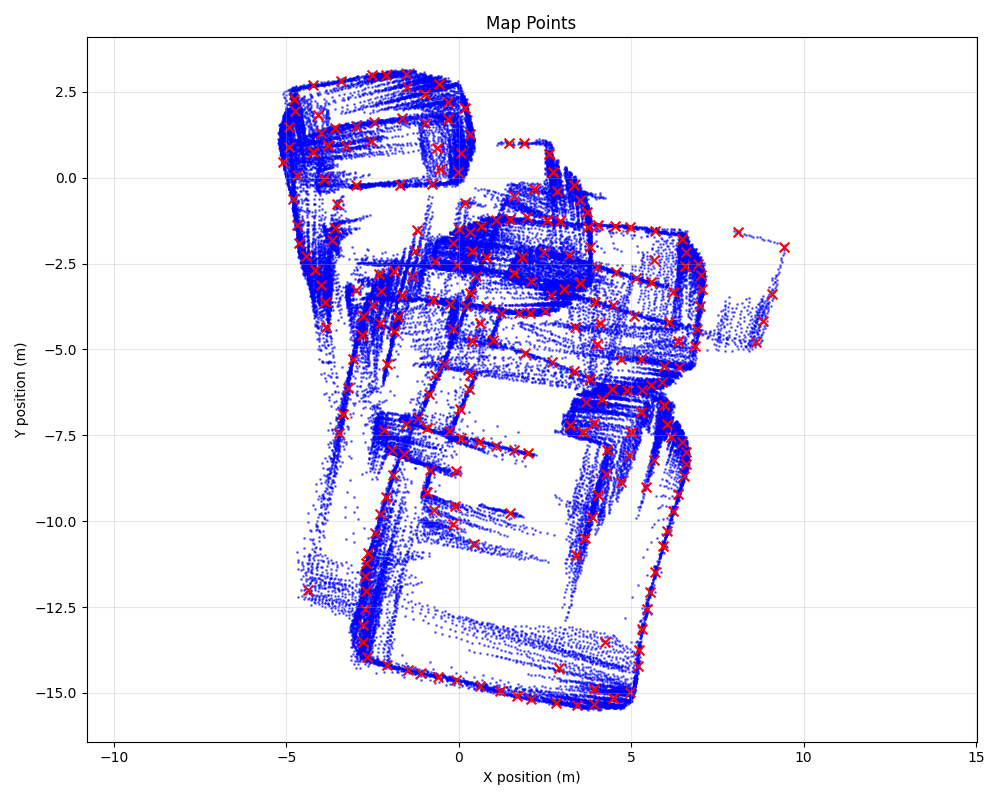
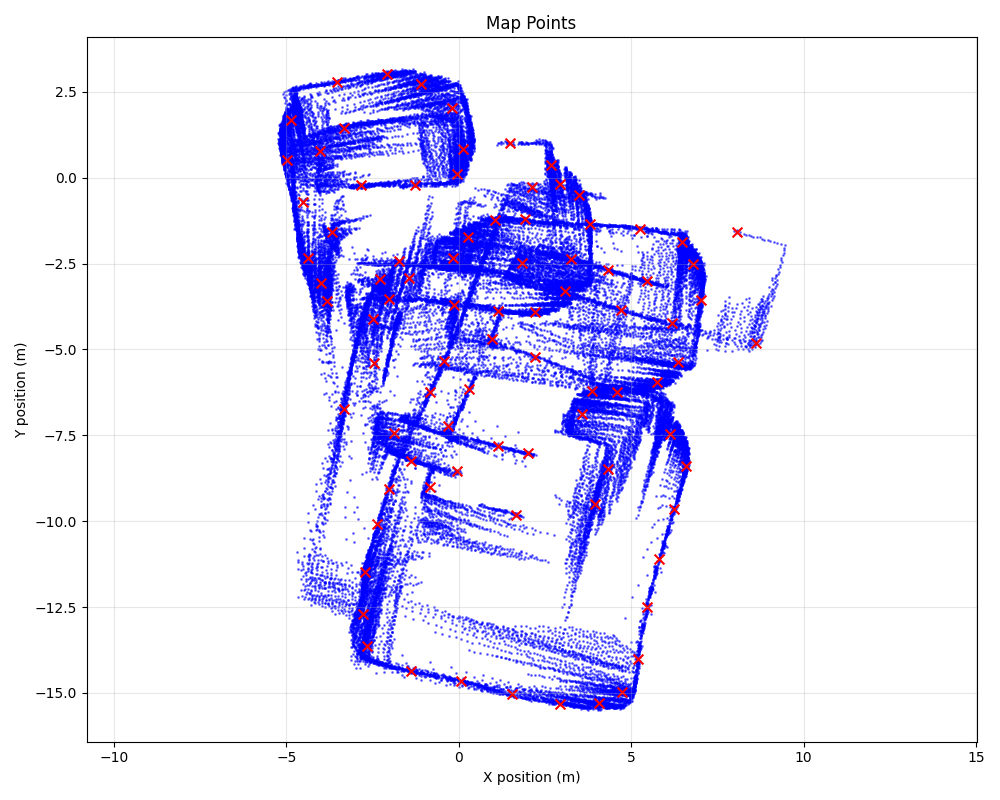
print snapshots when finding corners

diff --git a/src/map.py b/src/map.py
@@ -10,6 +10,16 @@ class Point:
         self.x: float = 0.0
         self.y: float = 0.0
 
+class Observation: 
+    def __init__(self, distance: float, angle: float, robot_homo_matrix: np.ndarray):
+        
+        # Observation
+        self.dist: float  = distance
+        self.angle: float = angle
+
+        # Robot transformation
+        self.homo_matrix: np.ndarray = robot_homo_matrix
+
 class Landmark:
     def __init__(self, x: float, y: float, scan_idx: int):
         # Position in world frame
@@ -35,18 +45,20 @@ class Landmark:
 class Map:
     def __init__(self):
         # Points
-        self.points: list[tuple[Point]] = []
+        self.points_world_frame: list[tuple[Point]] = []          # x, y
+        self.points_robot_frame: list[tuple[Observation]] = []    # dist, angle
 
         # Landmarks
         self.landmarks: list[Landmark] = []
 
         # Corner detection parameters
-        self.angle_threshold: float = 30.0    # [degrees]
-        self.distance_threshold: float = 0.5  # [m]
-        self.cluster_jump_dist: float  = 0.2  # [m]
+        self.angle_threshold: float    = GLOBALS.CORNER_DETECT_ANGLE_THRESHOLD        # [degrees]
+        self.distance_threshold: float = GLOBALS.CORNER_DETECT_DISTANCE_THRESHOLD     # [m]
+        self.cluster_jump_dist: float  = GLOBALS.CORNER_DETECT_CLUSTER_JUMP_DISTANCE  # [m]
 
     def compute_points_position(self, robot_homo_matrix: np.ndarray, lidar_ranges: np.ndarray, lidar_angles: np.ndarray, scan_idx: int) -> None:
-        scan_points: list[Point] = []
+        scan_points_world_frame: list[Point] = []
+        scan_points_robot_frame: list[Observation] = []
 
         for angle, lidar_r in zip(lidar_angles, lidar_ranges):
             # Position in robot frame
@@ -63,14 +75,16 @@ class Map:
             point_world.x = _point_world[0]
             point_world.y = _point_world[1]
 
-            scan_points.append(point_world)
+            scan_points_world_frame.append(point_world)
+            scan_points_robot_frame.append(Observation(lidar_r, angle, robot_homo_matrix))
 
         # Update
-        self.points.append(tuple(scan_points))
+        self.points_world_frame.append(tuple(scan_points_world_frame))
+        self.points_robot_frame.append(tuple(scan_points_robot_frame))
 
         # Detect corners
-        if len(scan_points) > 0:
-            self.compute_corners(scan_points, scan_idx)
+        if len(scan_points_world_frame) > 0:
+            self.compute_corners(scan_points_world_frame, scan_idx)
 
     def compute_corners(self, scan_points: list[Point], scan_idx: int):
         """Cluster -> Smooth -> Detect Angles"""
@@ -179,10 +193,46 @@ class Map:
             self.landmarks.append(Landmark(x, y, scan_idx))
 
     # Helpers
+    def plot_snapshots(self, steps: int = 10):
+        """Save each scan as a snapshot showing accumulated map points."""
+
+        print(f"[Map](plot_snapshots) Saving {len(self.points_world_frame)} snapshots...")
+
+        for scan_idx in range(0, len(self.points_world_frame), steps):
+            plt.figure(figsize=(10, 8))
+
+            # Plot points
+            scan_points = self.points_world_frame[scan_idx]
+            x_coords    = [point.x for point in scan_points]
+            y_coords    = [point.y for point in scan_points]
+            plt.scatter(x_coords, y_coords, c='blue', s=1, alpha=0.5)
+
+            # Plot landmarks from current scan only
+            lx = [lm.x for lm in self.landmarks if lm.first_seen == scan_idx]
+            ly = [lm.y for lm in self.landmarks if lm.first_seen == scan_idx]
+            if lx:
+                plt.scatter(lx, ly, c='red', s=50, marker='x', label='Corners')
+
+            plt.xlabel('X position (m)')
+            plt.ylabel('Y position (m)')
+            plt.title(f'Odometry Snapshot {scan_idx:04d}')
+            plt.grid(True, alpha=0.3)
+            plt.axis('equal')
+            plt.tight_layout()
+            plt.savefig(f"{GLOBALS.PATH_ODOMETRY}snapshot_{scan_idx:04d}.png")
+            plt.close()
+
+        print(f"[Map](plot_snapshots) Snapshots saved to {GLOBALS.PATH_ODOMETRY}")
+
     def plot_map(self):
+
+        # Statistics
+        print(f"[Map](plot_map) Detected {len(self.landmarks)} corners")
+
+        # Plot
         plt.figure(figsize=(10, 8))
 
-        for scan_points in self.points:
+        for scan_points in self.points_world_frame:
             x_coords = [point.x for point in scan_points]
             y_coords = [point.y for point in scan_points]
             plt.scatter(x_coords, y_coords, c='blue', s=1, alpha=0.5)

diff --git a/src/__config.py b/src/__config.py
@@ -1,6 +1,12 @@
+import os
+
 # Paths
 PATH_DATASET: str = "data/data.txt"
 PATH_OUTPUT: str  = "output/"
+PATH_ODOMETRY: str = "output/odometry/"
+
+os.makedirs(PATH_OUTPUT, exist_ok=True)
+os.makedirs(PATH_ODOMETRY, exist_ok=True)
 
 # Lidar
 LIDAR_NUM_BEAMS: int  = 121
@@ -13,3 +19,7 @@ DEBUG: bool = False
 NUM_EXAMPLE: int=300
 TASK: int=[2]
 
+# Corner Detection
+CORNER_DETECT_ANGLE_THRESHOLD: float        = 45.0  # [degrees]
+CORNER_DETECT_DISTANCE_THRESHOLD: float     = 1   # [m]
+CORNER_DETECT_CLUSTER_JUMP_DISTANCE: float  = 0.2   # [m]

diff --git a/src/main.py b/src/main.py
@@ -26,6 +26,7 @@ def main():
     # Visualization
     robot.plot_trajectory()
     map.plot_map()
+    map.plot_snapshots()
         
 
 
